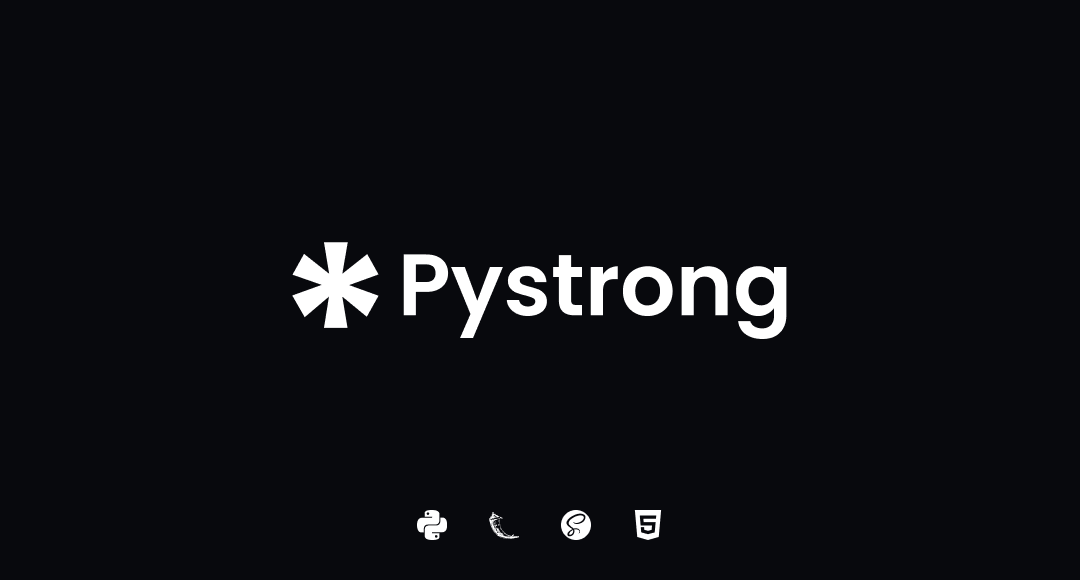
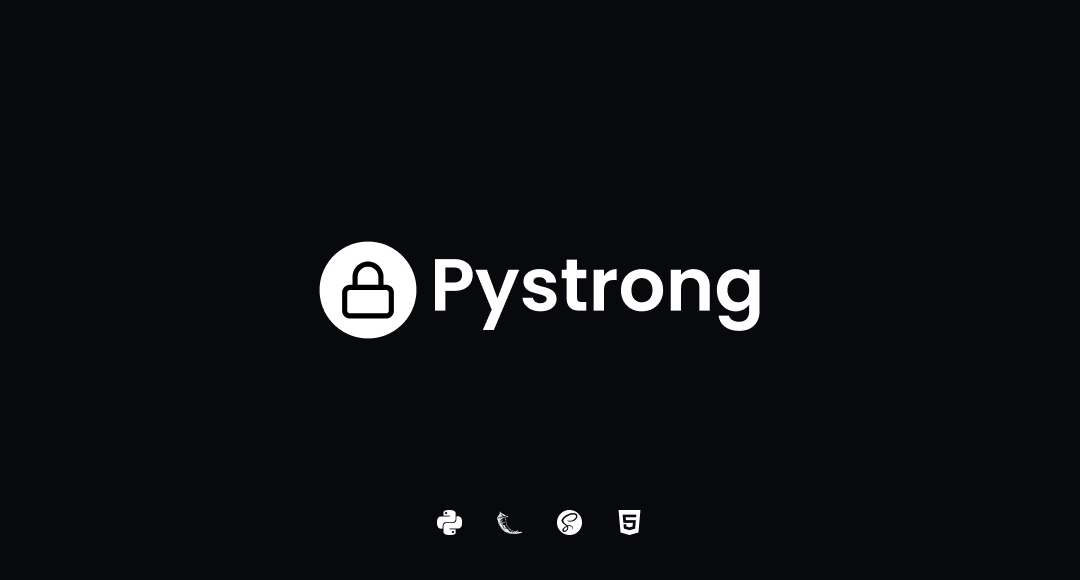
Add static files and modified html files

diff --git a/pystrong/static/css/pystrong.css b/pystrong/static/css/pystrong.css
@@ -1,3 +1,5 @@
+@import url('https://fonts.googleapis.com/css2?family=Roboto:wght@100;300;400;500;700;900&display=swap');
+
 * {
     margin: 0;
     padding: 0;
@@ -10,6 +12,27 @@ body {
 
 a {
     text-decoration: none;
+}
+
+li {
+    list-style: none;
+}
+
+h1, h2, h3, h4, h5, h6, a, span, button, div, section{
+    font-family: 'Roboto', sans-serif;
+    color: #FFFFFF;
+}
+
+button, input{
+    background: none;
+    border: none;
+    cursor: pointer;
+    outline: 0px;
+}
+
+h2 {
+    font-size: 30px;
+    font-weight: 400;
 }
 
 .relative {
@@ -50,7 +73,22 @@ a {
     width: 100%;
     height: 75px;
     position: absolute;
+    padding: 0px 5%;
     z-index: 500;
+}
+
+.nav-column {
+    width: 100%;
+    height: auto;
+}
+
+.nav-brand {
+    width: 120px;
+    height: 30px;
+    background-image: url("../img//logo//pystrong-light.svg");
+    background-repeat: no-repeat;
+    background-position: center;
+    background-size: contain;
 }
 
 .grid {
@@ -66,23 +104,6 @@ a {
     background-color: #08090D;
 }
 
-
-h1, h2, h3, h4, h5, h6, a, span, button{
-    font-family: Verdana, Geneva, Tahoma, sans-serif;
-    color: #FFFFFF;
-}
-
-button, input{
-    background: none;
-    border: none;
-    cursor: pointer;
-    outline: 0px;
-}
-
-h2 {
-    font-size: 30px;
-    font-weight: 400;
-}
 
 .link{
     text-decoration: none;
@@ -110,40 +131,47 @@ h2 {
     height: 65px;
     border-radius: 6px;
     margin-bottom: 38px;
-    /* background: rgba(10, 11, 15, 0.8); */
     backdrop-filter: blur(10px);
 }
 
-.get-password {
+.password-viewer {
     width: 100%;
     height: 100%;
-    font-size: 16px;
-    padding: 0px 0px 0px 20px;
-    content: "Your next strong password";
-    color: #808080;
+    padding: 0px 25px;
+    font-size: 17px;
+}
+
+.chevron-container, .form-btn {
+    display: flex;
+    align-items: center;
+    height: 100%;
+    fill: #FFFFFF;
+    z-index: 5;
 }
 
 .form-btn {
-    height: 100%;
     padding: 0px 15px;
-    fill: #FFFFFF;
 }
-.form-btn svg {
+.form-btn:hover svg {
+    opacity: 0.4;
+}
+.chevron-container svg, .form-btn svg {
     width: 20px;
+    transition: 0.3s ease;
 }
 
 .btn {
     padding: 12px 60px;
     border-radius: 6px;
-    font-weight: 500;
-    transition: 0.3s ease;
+    font-weight: 400;
+    transition: 0.2s ease;
 }
 
 .btn-light {
     background: #FFFFFF;
     border: 2px solid #FFFFFF;
     color: #0A0B0F;
-    font-size: 16px;
+    font-size: 17px;
 }
 .btn-light:hover {
     background: transparent;
@@ -163,7 +191,7 @@ h2 {
     width: 16px;
     fill: #FFFFFF;
     margin-right: 10px;
-    transition: 0.3s ease;
+    transition: 0.2s ease;
 }
 
 .btn-light-outline:hover {

diff --git a/pystrong/templates/includes/_password.html b/pystrong/templates/includes/_password.html
@@ -1,9 +1,19 @@
-<form action="/" method="GET">
+<form class="form" action="/" method="GET">
     <div class="form-group password-container flex relative">
-        <input type="text" class="get-password" placeholder="Your next strong password"/>
-        {% for message in get_flashed_messages() %}
-        {% endfor %}
-        <button type="button" class="form-btn absolute right-0 flex center-y">
+        <span class="chevron-container absolute left-0">
+            <svg version="1.1" xmlns="http://www.w3.org/2000/svg" width="24" height="24" viewBox="0 0 24 24">
+                <path d="M13.707 17.707l5-5c0.391-0.391 0.391-1.024 0-1.414l-5-5c-0.391-0.391-1.024-0.391-1.414 0s-0.391 1.024 0 1.414l4.293 4.293-4.293 4.293c-0.391 0.391-0.391 1.024 0 1.414s1.024 0.391 1.414 0zM6.707 17.707l5-5c0.391-0.391 0.391-1.024 0-1.414l-5-5c-0.391-0.391-1.024-0.391-1.414 0s-0.391 1.024 0 1.414l4.293 4.293-4.293 4.293c-0.391 0.391-0.391 1.024 0 1.414s1.024 0.391 1.414 0z"></path>
+            </svg>
+        </span>
+
+        <section class="password-viewer absolute flex flex-y">
+            Hola
+            {% for message in get_flashed_messages() %}
+                <span class="">{{ message }}</span>
+            {% endfor %}
+        </section>
+
+        <button type="button" class="form-btn absolute right-0">
             <svg version="1.1" xmlns="http://www.w3.org/2000/svg" width="24" height="24" viewBox="0 0 24 24">
                 <path d="M11 8c-0.828 0-1.58 0.337-2.121 0.879s-0.879 1.293-0.879 2.121v9c0 0.828 0.337 1.58 0.879 2.121s1.293 0.879 2.121 0.879h9c0.828 0 1.58-0.337 2.121-0.879s0.879-1.293 0.879-2.121v-9c0-0.828-0.337-1.58-0.879-2.121s-1.293-0.879-2.121-0.879zM11 10h9c0.276 0 0.525 0.111 0.707 0.293s0.293 0.431 0.293 0.707v9c0 0.276-0.111 0.525-0.293 0.707s-0.431 0.293-0.707 0.293h-9c-0.276 0-0.525-0.111-0.707-0.293s-0.293-0.431-0.293-0.707v-9c0-0.276 0.111-0.525 0.293-0.707s0.431-0.293 0.707-0.293zM5 14h-1c-0.276 0-0.525-0.111-0.707-0.293s-0.293-0.431-0.293-0.707v-9c0-0.276 0.111-0.525 0.293-0.707s0.431-0.293 0.707-0.293h9c0.276 0 0.525 0.111 0.707 0.293s0.293 0.431 0.293 0.707v1c0 0.552 0.448 1 1 1s1-0.448 1-1v-1c0-0.828-0.337-1.58-0.879-2.121s-1.293-0.879-2.121-0.879h-9c-0.828 0-1.58 0.337-2.121 0.879s-0.879 1.293-0.879 2.121v9c0 0.828 0.337 1.58 0.879 2.121s1.293 0.879 2.121 0.879h1c0.552 0 1-0.448 1-1s-0.448-1-1-1z"></path>
             </svg>

diff --git a/pystrong/templates/includes/_navbar.html b/pystrong/templates/includes/_navbar.html
@@ -1,13 +1,13 @@
-<nav class="navbar flex center-y" data-controller="navigationbar">
-    <div class="nav-column flex">
-        <a class="nav-brand" href="{{ url_for('general.index') }}">Home</a>
+<nav class="navbar flex flex-x flex-y" data-controller="navigationbar">
+    <div class="nav-column flex between">
+        <a class="nav-brand" href="{{ url_for('general.index') }}"></a>
 
         <ul class="unordered-list">
             <li class="unordered-list-element"></li>
             
             <li class="unordered-list-element">
                 <a class="nav-link" href="https://www.github.com/itsarreguin/pystrong/" target="_blank">
-                    <span class="nav-icon"></span>
+                    <span class="nav-icon">GitHub</span>
                 </a>
             </li>
         </ul>

diff --git a/pystrong/templates/layout.html b/pystrong/templates/layout.html
@@ -6,7 +6,7 @@
     <meta name="viewport" content="width=device-width, initial-scale=1.0">
     <title>{% block title %}Pystrong{% endblock %}</title>
 
-    <link rel="shortcut icon" sizes="128x128" href="favicon.ico" type="image/x-icon">
+    <link rel="shortcut icon" sizes="256x256" href="{{ url_for('static', filename='img/icons/favicon.png') }}" type="image/x-icon">
     <link rel="stylesheet" type="text/css" href="{{ url_for('static', filename='css/pystrong.css') }}">
 
     <link rel="apple-touch-icon" sizes="128x128" href="favicon.png">

diff --git a/pystrong/templates/index.html b/pystrong/templates/index.html
@@ -4,5 +4,7 @@
 {% endblock %}
 
 {% block content %}
-    {% include 'includes/_password.html' %}
+    <div class="fullview flex flex-x flex-y">
+        {% include 'includes/_password.html' %}
+    </div>
 {% endblock %}
